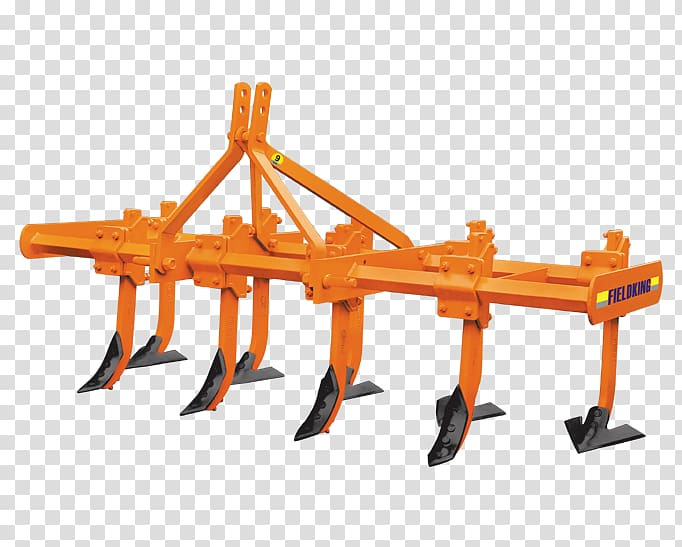
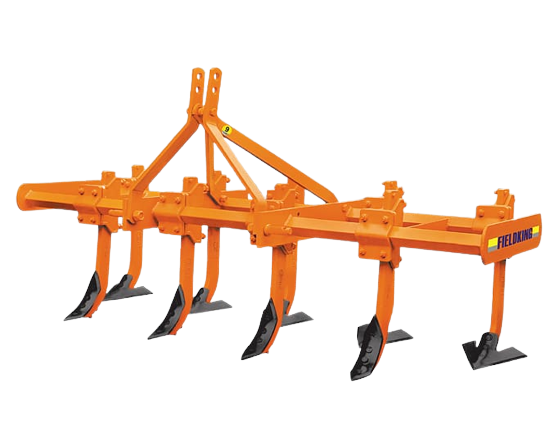
updated readme and improved images quality

diff --git a/README.md b/README.md
@@ -1,16 +1,54 @@
-# krishimitra
+# KrishiMitra
 
-A new Flutter project.
+An android app made in flutter for farmers to trade or rent out farm equipment's or machinery.
 
-## Getting Started
+## Introduction
 
-This project is a starting point for a Flutter application.
+An app for farmers to trade or rent out farm equipment's or machinery. Provides a platform to connect the farm owners and labours. The seller can post the all the information about the product and the buyer can contact the seller according to his/her prefrences. This system will work according to user's location and will show  result within a particular radius like 2 km , 5km or 10km set by the user. This is done because in rural areas people prefer to hire labour or rent equipments from thier own or nearby villages only. 
 
-A few resources to get you started if this is your first Flutter project:
+The main aim of the app is to provide one platform for every agriculture or farming related need. 
 
-- [Lab: Write your first Flutter app](https://docs.flutter.dev/get-started/codelab)
-- [Cookbook: Useful Flutter samples](https://docs.flutter.dev/cookbook)
+## Key components
 
-For help getting started with Flutter development, view the
-[online documentation](https://docs.flutter.dev/), which offers tutorials,
-samples, guidance on mobile development, and a full API reference.
+* Home screen shows different categories like machinery, equipments, labours etc as shown in first image.
+
+* These categories when further expanded shows detailed information about that category. 
+
+* When we click on further then a list of all the available options appears as shown in third image.
+
+|         Home screen         |          Home screen          |                 Product Detail screen                 |
+| :-------------------------: |  :-------------------------: | :-----------------------------------------------------: |
+| ![](assets/images/home_1.png) | ![](assets/images/home_2.png) | ![](assets/images/detail_1.png) | 
+
+* On the product detail screen the user can sort and filter the available options on basis of price, location and ratings.
+
+* In this people can create their own profile or a different app will be there in which one person can create profile for others and add their details. this is helpful for those people who doesn't have smartphones or are illiterate. 
+
+## Future scopes
+
+* Weather forecast information can be added to the app which will help farmers to plan things ahead.
+
+* Integration with google maps so that users can see others user on map.
+
+* Internet call feature can be added to improve connectivity.
+
+* Chatbots or group chat features can be added to help farmers resolve farming related issues via chatting with experts. 
+
+* Regional language support can also be added to the app. 
+
+* Online classes for farmers to keep them up to date with new technologies and best farming practices.
+
+* Marketplace for farmers to buy good quality seeds or fertilizers from either online or offline from any nearest shop.
+
+* Different section to educate farmers for all the government policies related to agriculture.
+
+## Built with
+
+* [Flutter](https://flutter.dev/) - SDK by google
+* [Firebase](https://firebase.google.com/) for user authentication and data storage
+* Agile methodology
+
+## Authors
+
+* **Vaibhav Krishan Yadav** - [LinkedIn](https://www.linkedin.com/in/vaibhavkrishanyadav/)
+
